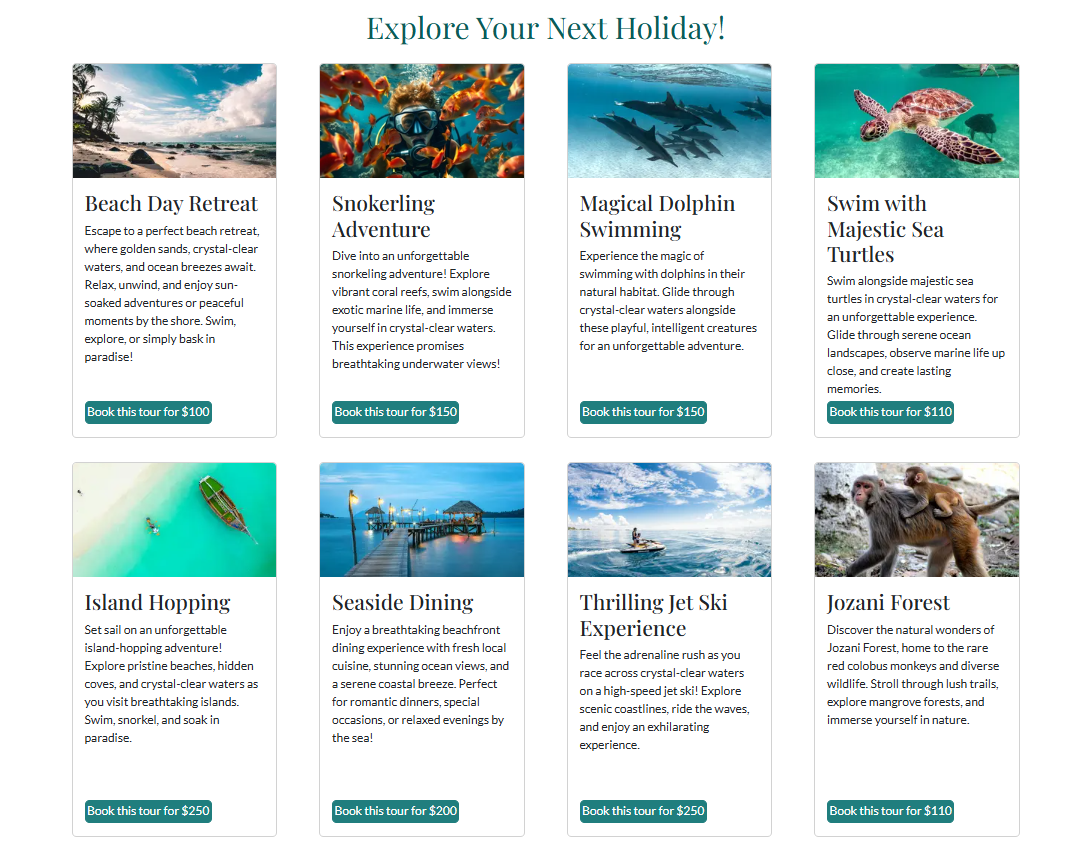
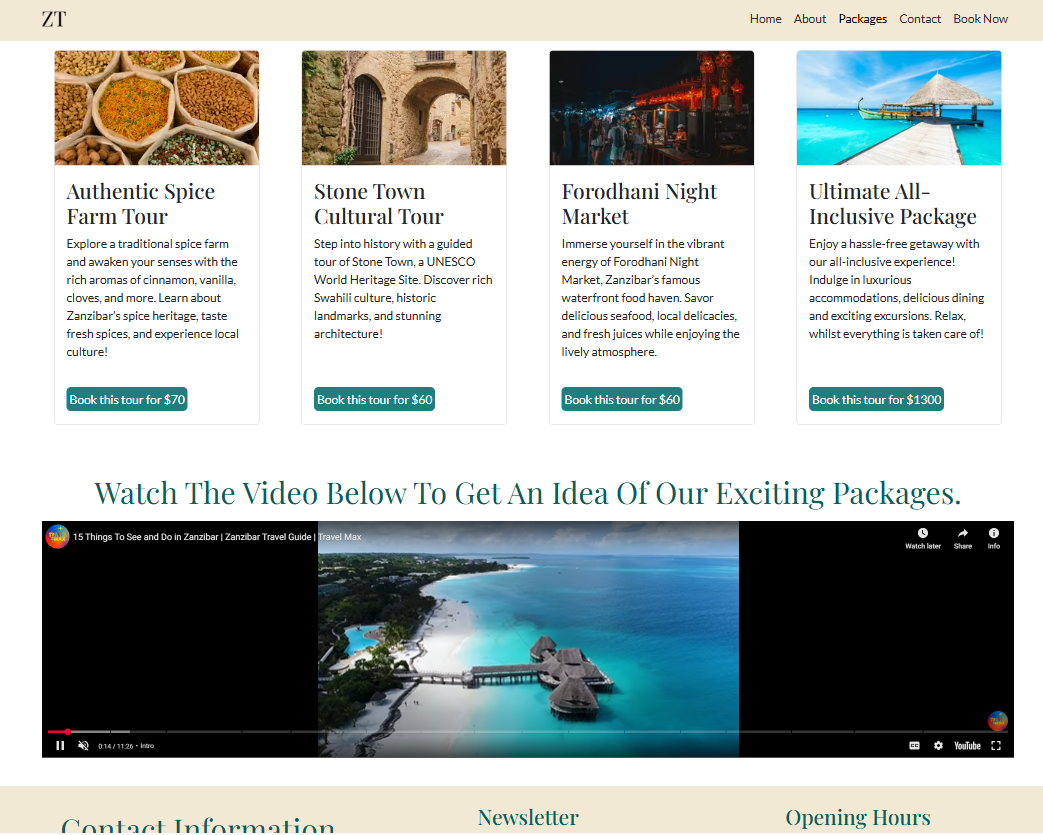
add embedded video information onto README.md

diff --git a/packages.html b/packages.html
@@ -292,23 +292,20 @@
             </div>
         </section>
 
-          <!--Embedded Youtube video-->
-        <section class="container section" id="video">
+        <!--Embedded Youtube video-->
+        <section class="container section">
             <div class="row">
                 <div class="col-12 text-center">
-                    <h3 class="display-6 text-capitalize mt-5"> Watch the video below to get an idea of our exciting
+                    <h3 class="display-6 text-capitalize m-3"> Watch the video below to get an idea of our exciting
                         Packages.</h3>
                     <iframe width="100%" height="315" src="https://www.youtube.com/embed/F7FDgT2182k?autoplay=1&mute=1"
                         title="YouTube video player"
                         allow="accelerometer; autoplay; clipboard-write; encrypted-media; gyroscope; picture-in-picture; web-share"
                         referrerpolicy="strict-origin-when-cross-origin" allowfullscreen>
                     </iframe>
-
                 </div>
             </div>
         </section>
-
-
     </main>
 
     <!--Footer-->

diff --git a/README.md b/README.md
@@ -157,11 +157,13 @@ Wireframes were developed usng Balsamiq for mobile, tablet and desktop sizes.
 - **Package page**
 
   - The Packages page consists of twelve cards, each showcasing an image of the tour's scenic views, a brief description of the experience, and a footer section with a button that links to the booking form, allowing users to book a tour.
+  - An embedded YouTube video is positioned at the bottom of the page. The video is set to autoplay while muted, includes playback controls for user convenience, and offers the option to open directly on YouTube by clicking the YouTube icon.
   - The layout is fully responsive:
     - On mobile screens, one package card takes up the full width.
     - On tablet-sized screens, two cards are displayed per row, spanning the entire width.
     - On large screens, four package cards are displayed per row, utilizing the full screen width.
       ![screenshot](assets\images\documentation\features\packages.png)
+    - The embedded video maintains a consistent layout across all screen sizes.
 
 - **Booking page**
 
@@ -258,64 +260,28 @@ Forking a repository allows you to create a personal copy of a project.
 | ---------------------------------------------------------------------------------------------------------------------- | :--------------------: | ------------------------------------------------------------------------------------: |
 | [Markdown Builder](https://github.com/adam-p/markdown-here/wiki/Markdown-Cheatsheet)                                   |     README.md file     |                                          assisted in understanding markdown language. |
 | [Code Institute Readme Template](https://github.com/Code-Institute-Solutions/readme-template)                          |     README.md file     |                   helped with structuring read me file, layout and content to include |
+| [Code Institute Boardwalks Website Tutorial](https://learn.codeinstitute.net/login?next=/dashboard)                    |  entire website file   |                    provided guidance & insightful information for the wesbite layout. |
 | [Luna's Leopard Geckos README](https://github.com/Code-Institute-Submissions/Lunas-Leopard-Geckos/blob/main/README.md) |     README.md file     |                   helped with structuring read me file, layout and content to include |
 | [YouTube](https://youtu.be/zVjAA6UxvtU?si=cXguVxO0oWH6A2YB)                                                            |        Carousel        |                                                    inspiration for carousel on header |
+| [YouTube](https://www.youtube.com/watch?v=F7FDgT2182ksi=cXguVxO0oWH6A2YB)                                              |     Packages.html      |                                                       embedded video on packages.html |
 | [Google Fonts](https://fonts.google.com/)                                                                              |    entired website     |                                                             fonts for entire website. |
-| [W3Schools](https://www.w3schools.com/css/css3_mediaqueries.asp)                                                       |     entire website     |                          helped understand concepts for entire website/ media queries |
+| [W3Schools](https://www.w3schools.com/css/css3_mediaqueries.asp)                                                       |     entire website     |   helped understand concepts for entire website/ media queries/flexbox & positioning. |
 | [Image Resizer](https://imageresizer.com/)                                                                             | testimonies & packages |                                              optimized images for better performance. |
 | [ChatGPT](https://chatgpt.com/)                                                                                        | testimonies & packages | assisted with formulating heading and text, refer to the table below for more detail. |
 | [FontAwesome](https://fontawesome.com/)                                                                                |    icons on footer     |                                                        contact section, social links, |
 | [Favicon](https://favicon.io/)                                                                                         |     Navbar, Title      |                         Favicon used on desktop icon tab and used as a logo on navbar |
-
-<details>
-<summary>Click here to view the ChatGBT promts</summary>
-
-| Title                              | Description Output                                                                                                                                                                                                                |
-| ---------------------------------- | --------------------------------------------------------------------------------------------------------------------------------------------------------------------------------------------------------------------------------- |
-| **Beach Day Retreat**              | Escape to a perfect beach retreat, where golden sands, crystal-clear waters, and ocean breezes await. Relax, unwind, and enjoy sun-soaked adventures or peaceful moments by the shore. Swim, explore, or simply bask in paradise! |
-| **Snorkeling Adventure**           | Dive into an unforgettable snorkeling adventure! Explore vibrant coral reefs, swim alongside exotic marine life, and immerse yourself in crystal-clear waters. This experience promises breathtaking underwater views!            |
-| **Magical Dolphin Swimming**       | Experience the magic of swimming with dolphins in their natural habitat. Glide through crystal-clear waters alongside these playful, intelligent creatures for an unforgettable adventure.                                        |
-| **Swim with Majestic Sea Turtles** | Swim alongside majestic sea turtles in crystal-clear waters for an unforgettable experience. Glide through serene ocean landscapes, observe marine life up close, and create lasting memories.                                    |
-| **Island Hopping**                 | Set sail on an unforgettable island-hopping adventure! Explore pristine beaches, hidden coves, and crystal-clear waters as you visit breathtaking islands. Swim, snorkel, and soak in paradise.                                   |
-| **Seaside Dining**                 | Enjoy a breathtaking beachfront dining experience with fresh local cuisine, stunning ocean views, and a serene coastal breeze. Perfect for romantic dinners, special occasions, or relaxed evenings by the sea!                   |
-| **Thrilling Jet Ski Experience**   | Feel the adrenaline rush as you race across crystal-clear waters on a high-speed jet ski! Explore scenic coastlines, ride the waves, and enjoy an exhilarating experience.                                                        |
-| **Jozani Forest**                  | Discover the natural wonders of Jozani Forest, home to the rare red colobus monkeys and diverse wildlife. Stroll through lush trails, explore mangrove forests, and immerse yourself in nature.                                   |
-| **Authentic Spice Farm Tour**      | Explore a traditional spice farm and awaken your senses with the rich aromas of cinnamon, vanilla, cloves, and more. Learn about Zanzibar’s spice heritage, taste fresh spices, and experience local culture!                     |
-| **Stone Town Cultural Tour**       | Step into history with a guided tour of Stone Town, a UNESCO World Heritage Site. Discover rich Swahili culture, historic landmarks, and stunning architecture!                                                                   |
-| **Forodhani Night Market**         | Immerse yourself in the vibrant energy of Forodhani Night Market, Zanzibar’s famous waterfront food haven. Savor delicious seafood, local delicacies, and fresh juices while enjoying the lively atmosphere.                      |
-| **Ultimate All-Inclusive Package** | Enjoy a hassle-free getaway with our all-inclusive experience! Indulge in luxurious accommodations, delicious dining, and exciting excursions. Relax, whilst everything is taken care of!                                         |
-
-**Note:** Each title was generated using the prompt "Create a paragraph of 38 words to describe this experience on a Zanzibar tour page."
-
-</details>
 
 ### Media
 
 This section includes images, fonts, and other media assets that enhance the visual appeal of the website.
 
-| source                                  |    location    |                                                            notes |
-| --------------------------------------- | :------------: | ---------------------------------------------------------------: |
-| [Pexels](https://www.pexels.com/)       | Entire Website | all images, background, carousel, about, testimonials & packages |
-| [FontAwesome](https://fontawesome.com/) |    Footer:     |                                   contact section, social links, |
-| [Favicon](https://favicon.io/)          | Navbar, Title  |    Favicon used on desktop icon tab and used as a logo on navbar |
+| source                                                                    |    location    |                                                            notes |
+| ------------------------------------------------------------------------- | :------------: | ---------------------------------------------------------------: |
+| [Pexels](https://www.pexels.com/)                                         | Entire Website | all images, background, carousel, about, testimonials & packages |
+| [FontAwesome](https://fontawesome.com/)                                   |    Footer:     |                                   contact section, social links, |
+| [Favicon](https://favicon.io/)                                            | Navbar, Title  |    Favicon used on desktop icon tab and used as a logo on navbar |
+| [YouTube](https://www.youtube.com/watch?v=F7FDgT2182ksi=cXguVxO0oWH6A2YB) | Packages.html  |                                  embedded video on packages.html |
 
 ### Acknowledgements
 
 - I would like to express my gratitude to my tutor, Robert Thompson, and my mentor, Victor Miclovich, for their assistance during the development of this project.
-
-### Content
-
-| source                                                                                                                 |        location        |                                                                                 notes |
-| ---------------------------------------------------------------------------------------------------------------------- | :--------------------: | ------------------------------------------------------------------------------------: |
-| [Markdown Builder](https://github.com/adam-p/markdown-here/wiki/Markdown-Cheatsheet)                                   |     README.md file     |                                          assisted in understanding markdown language. |
-| [Code Institute Readme Template](https://github.com/Code-Institute-Solutions/readme-template)                          |     README.md file     |                   helped with structuring read me file, layout and content to include |
-| [Code Institute Boardwalks Website Tutorial](https://learn.codeinstitute.net/login?next=/dashboard)                          |     entire website file     |                   provided guidance & insightful information for the wesbite layout. |
-| [Luna's Leopard Geckos README](https://github.com/Code-Institute-Submissions/Lunas-Leopard-Geckos/blob/main/README.md) |     README.md file     |                   helped with structuring read me file, layout and content to include |
-| [YouTube](https://youtu.be/zVjAA6UxvtU?si=cXguVxO0oWH6A2YB)                                                            |        Carousel        |                                                    inspiration for carousel on header |
-| [Google Fonts](https://fonts.google.com/)                                                                              |    entired website     |                                                             fonts for entire website. |
-| [W3Schools](https://www.w3schools.com/css/css3_mediaqueries.asp)                                                       |     entire website     |                          helped understand concepts for entire website/ media queries/flexbox & positioning. |
-| [Image Resizer](https://imageresizer.com/)                                                                             | testimonies & packages |                                              optimized images for better performance. |
-| [ChatGPT](https://chatgpt.com/)                                                                                        | testimonies & packages | assisted with formulating heading and text, refer to the table below for more detail. |
-| [FontAwesome](https://fontawesome.com/)                                                                                |    icons on footer     |                                                        contact section, social links, |
-| [Favicon](https://favicon.io/)                                                                                         |     Navbar, Title      |                         Favicon used on desktop icon tab and used as a logo on navbar |
-
